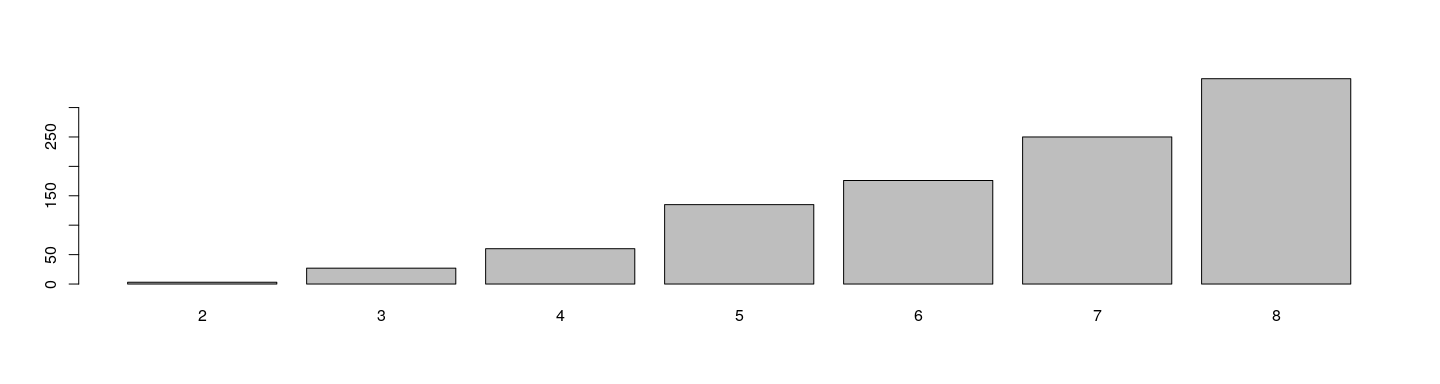
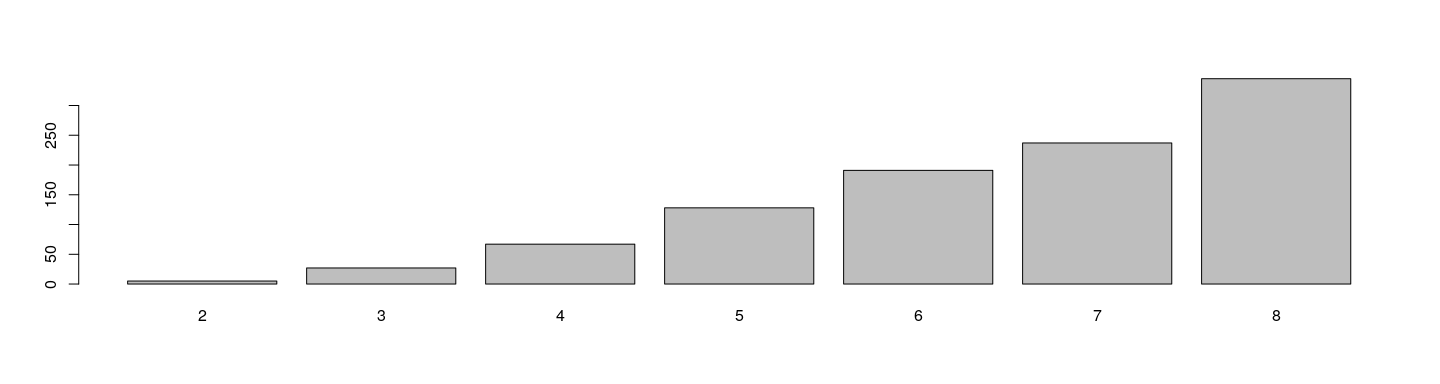
updates

diff --git a/courses/introductory-computer-programming/slides/09-rapply-3.html b/courses/introductory-computer-programming/slides/09-rapply-3.html
@@ -20,22 +20,23 @@ mathjax: true
 
 -->
 
-layout: true
 
-# The `lapply()` function
+# Recap
+
+* `lapply(X, FUN)` applies the function `FUN` on each element of `X`
+	
+* Extra arguments to `FUN` can also be supplied (but these remain fixed for each call)
+	
+* These extra arguments can be named to control which argument of `FUN` varies
+
+
+
 
 ---
 
-* Recap:
+layout: true
 
-	* `lapply(X, FUN)` applies the function `FUN` on each element of `X`
-	
-	* Extra arguments to `FUN` can also be supplied (but these remain fixed for each call)
-	
-	* These extra arguments can be named to control which argument of `FUN` varies
-
-
-
+# The `lapply()` function
 
 ---
 
@@ -56,11 +57,11 @@ str(lapply(1:5, FUN = rnorm, n = 1, mean = 0))
 
 ```
 List of 5
- $ : num -0.0719
- $ : num 0.144
- $ : num -0.101
- $ : num 0.479
- $ : num -4.75
+ $ : num 0.492
+ $ : num 1.32
+ $ : num -2.51
+ $ : num -5.99
+ $ : num 9.58
 ```
 --
 
@@ -73,7 +74,7 @@ rnorm(5, mean = 0, sd = 1:5)
 ```
 
 ```
-[1] -0.1784805  0.6632259  2.4897465 -0.2026332 -2.6879149
+[1] -0.09093912 -0.89359590 -1.88663962 -3.02831868  3.18496595
 ```
 
 ---
@@ -87,14 +88,14 @@ str(lapply(1:8, function(s) IQR(rnorm(n = 1000, mean = 0, sd = s))))
 
 ```
 List of 8
- $ : num 1.16
- $ : num 3.05
- $ : num 4.13
- $ : num 5.29
- $ : num 6.74
- $ : num 7.63
- $ : num 9.56
- $ : num 10.7
+ $ : num 1.39
+ $ : num 2.94
+ $ : num 3.88
+ $ : num 5.08
+ $ : num 7.4
+ $ : num 8.45
+ $ : num 9.19
+ $ : num 11
 ```
 
 ---
@@ -113,7 +114,7 @@ sapply(1:8, function(s) IQR(rnorm(n = 1000, mean = 0, sd = s)))
 ```
 
 ```
-[1]  1.313640  2.631882  3.988291  5.392397  6.946055  7.811937  9.601411 10.948800
+[1]  1.339863  2.590237  3.818228  5.318264  6.575928  8.123205  8.836811 11.098019
 ```
 
 
@@ -122,12 +123,12 @@ sapply(1:6, function(s) quantile(rnorm(n = 1000, mean = 0, sd = s)))
 ```
 
 ```
-            [,1]         [,2]       [,3]       [,4]       [,5]       [,6]
-0%   -3.14735295 -5.578174064 -8.4018331 -14.400185 -20.349719 -17.105913
-25%  -0.73655370 -1.410418439 -1.8743388  -2.453415  -3.160600  -4.332324
-50%  -0.07412215  0.001351075  0.1528226   0.265138  -0.117841  -0.159386
-75%   0.63507176  1.345615313  2.2607078   2.907374   3.240142   3.881283
-100%  3.36913341  7.064352650  9.1814567  12.087214  14.196931  16.164054
+            [,1]        [,2]       [,3]          [,4]        [,5]         [,6]
+0%   -3.28063320 -5.63571568 -9.0398668 -19.099832113 -16.2652673 -17.55960422
+25%  -0.70567469 -1.33287966 -2.2350691  -2.759318896  -3.4561019  -4.15835932
+50%  -0.04021887 -0.07850721 -0.2550142  -0.005546089   0.1769511   0.07887178
+75%   0.64690419  1.27053291  1.9990935   2.513602735   3.4368861   3.90492779
+100%  3.27322026  6.80429707  8.9521230  10.816754899  18.6521178  17.51371811
 ```
 
 ---
@@ -151,7 +152,7 @@ str(m1)
 ```
 
 ```
- num [1:1000, 1:8] 0.0255 -1.517 -0.0895 0.9967 -0.1302 ...
+ num [1:1000, 1:8] 0.302 1.605 -0.647 -0.647 0.377 ...
 ```
 
 * Note that this is essentially the same as
@@ -163,7 +164,7 @@ str(m2)
 ```
 
 ```
- num [1:1000, 1:8] -0.69 0.966 0.556 -0.753 0.484 ...
+ num [1:1000, 1:8] 1.006 -0.042 0.836 -0.255 -1.823 ...
 ```
 
 ---
@@ -184,7 +185,8 @@ colMeans(m1)
 ```
 
 ```
-[1]  0.03437047 -0.08332619 -0.19352819  0.03650738 -0.11624173 -0.16529956  0.08605806 -0.09065975
+[1]  0.008369193  0.006590371  0.054564211 -0.058994920 -0.062487730  0.210112484  0.006255209
+[8]  0.139253951
 ```
 
 ```r
@@ -192,7 +194,8 @@ colSums(m1) / nrow(m1)
 ```
 
 ```
-[1]  0.03437047 -0.08332619 -0.19352819  0.03650738 -0.11624173 -0.16529956  0.08605806 -0.09065975
+[1]  0.008369193  0.006590371  0.054564211 -0.058994920 -0.062487730  0.210112484  0.006255209
+[8]  0.139253951
 ```
 
 ---
@@ -209,7 +212,8 @@ apply(m1, 2, mean)
 ```
 
 ```
-[1]  0.03437047 -0.08332619 -0.19352819  0.03650738 -0.11624173 -0.16529956  0.08605806 -0.09065975
+[1]  0.008369193  0.006590371  0.054564211 -0.058994920 -0.062487730  0.210112484  0.006255209
+[8]  0.139253951
 ```
 
 ```r
@@ -217,7 +221,7 @@ apply(m1, 2, sd)
 ```
 
 ```
-[1] 0.973961 2.007993 2.961974 3.997365 5.135379 5.572814 6.743065 7.959145
+[1] 1.011419 2.012222 3.043265 4.071580 5.112984 5.873970 6.877488 7.932019
 ```
 
 ```r
@@ -225,7 +229,7 @@ apply(m1, 2, IQR)
 ```
 
 ```
-[1]  1.294936  2.719780  3.852696  5.477830  6.952658  7.098822  9.041420 10.815642
+[1]  1.362473  2.753343  3.990112  5.635141  6.809997  7.940324  9.486787 10.782283
 ```
 
 ---
@@ -239,8 +243,8 @@ apply(m1, 2, quantile, probs = c(0.25, 0.75))
 
 ```
           [,1]      [,2]      [,3]      [,4]      [,5]      [,6]      [,7]      [,8]
-25% -0.6001764 -1.399354 -2.146904 -2.542861 -3.543185 -3.686030 -4.309807 -5.428353
-75%  0.6947600  1.320425  1.705792  2.934969  3.409472  3.412792  4.731613  5.387289
+25% -0.6636684 -1.363215 -1.935891 -3.027656 -3.553006 -3.856299 -4.878299 -5.430362
+75%  0.6988050  1.390128  2.054221  2.607485  3.256991  4.084024  4.608488  5.351921
 ```
 
 * As well as unnamed functions
@@ -251,7 +255,7 @@ apply(m1, 2, function(x) median(abs(x)))
 ```
 
 ```
-[1] 0.6602236 1.3591198 1.9806799 2.7673879 3.4647200 3.6195444 4.5282706 5.4043778
+[1] 0.6920514 1.3772777 1.9892826 2.8110458 3.4470390 3.9742496 4.6929433 5.4025848
 ```
 
 ---
@@ -264,28 +268,28 @@ apply(m1, 1, function(x) which.max(abs(x)))
 ```
 
 ```
-   [1] 7 7 7 5 7 7 8 5 8 6 4 7 7 6 8 6 8 6 6 8 8 7 5 8 8 5 7 7 7 6 7 6 8 8 7 7 7 8 7 8 6 5 6 4 8 5 8
-  [48] 6 3 7 7 8 6 8 3 8 8 5 7 7 8 8 8 7 7 6 8 7 6 7 5 8 6 7 7 8 5 8 5 7 4 5 6 8 5 6 8 6 6 7 7 8 7 8
-  [95] 8 6 7 5 6 8 6 7 5 5 7 7 8 6 6 4 6 8 7 8 3 8 8 8 7 8 6 7 8 6 7 7 8 6 7 8 6 7 4 5 8 7 5 7 8 5 7
- [142] 2 7 6 8 7 8 8 8 5 7 7 8 7 8 3 8 8 2 8 5 8 4 5 8 4 5 8 8 6 3 8 6 6 7 5 6 6 8 6 8 6 8 6 5 4 8 5
- [189] 5 5 4 8 4 4 8 6 6 6 7 7 8 7 8 8 8 7 5 6 6 8 8 8 8 4 6 6 8 7 7 7 8 8 7 5 7 6 5 5 6 8 6 8 8 7 3
- [236] 8 7 6 5 6 5 8 7 7 3 7 7 7 6 8 6 8 7 6 3 7 7 8 8 8 8 8 4 8 8 6 6 6 6 6 7 7 8 6 7 8 5 7 6 7 8 6
- [283] 7 7 8 7 6 8 6 8 5 8 4 5 7 4 5 6 7 8 4 8 7 8 7 8 5 8 6 5 8 7 6 6 8 4 7 4 6 5 8 8 5 4 6 8 8 6 6
- [330] 8 8 4 6 8 5 5 8 8 7 5 8 6 7 5 8 8 8 6 7 8 5 8 7 7 6 7 8 6 8 5 8 8 4 7 7 8 7 4 7 8 7 5 8 8 8 6
- [377] 7 5 8 6 7 8 8 8 8 5 7 7 5 8 8 8 7 8 7 8 5 6 7 8 5 7 7 6 8 7 8 7 6 7 5 7 8 6 7 8 8 6 7 8 4 8 3
- [424] 7 3 8 8 4 4 4 8 8 5 8 7 7 5 7 8 8 7 7 7 5 4 7 6 8 2 8 6 8 7 8 7 8 7 5 7 4 7 8 6 7 7 5 3 7 6 6
- [471] 6 7 6 6 8 7 7 7 7 8 8 8 7 5 3 7 8 5 5 8 8 5 8 4 8 8 8 8 7 3 8 6 8 4 6 7 5 8 5 8 8 3 5 4 5 4 8
- [518] 8 5 8 4 8 8 8 7 6 8 6 8 5 4 4 7 8 5 8 8 7 7 8 4 8 6 4 5 7 7 8 8 7 8 6 4 6 8 6 6 8 6 6 7 7 8 8
- [565] 8 4 5 8 7 5 8 5 8 5 6 5 7 5 6 6 7 8 6 8 8 6 5 5 5 4 8 8 6 6 3 6 7 8 7 7 6 7 8 6 7 5 5 8 4 7 8
- [612] 8 8 7 6 7 8 8 8 8 8 8 8 7 8 8 5 8 7 8 7 7 5 5 3 5 6 5 7 6 8 5 8 8 7 4 8 8 7 7 5 8 7 5 7 6 4 8
- [659] 8 7 5 8 7 8 8 5 8 5 6 8 7 8 8 6 5 6 8 5 7 7 8 6 4 8 6 8 6 6 8 4 7 8 7 6 6 4 8 8 8 8 6 6 7 7 5
- [706] 4 5 7 6 5 8 6 7 8 7 8 7 8 5 8 8 7 5 7 5 6 8 7 8 6 4 5 7 6 7 7 3 7 7 6 5 7 7 5 5 8 7 8 7 7 6 7
- [753] 6 5 6 8 8 7 7 8 3 5 4 8 5 6 6 8 7 7 4 7 6 5 6 4 6 8 7 3 8 8 4 5 8 8 8 8 6 4 7 6 8 6 8 8 7 8 8
- [800] 7 6 8 8 6 8 7 6 5 5 8 6 6 5 7 8 6 7 8 6 8 8 7 7 5 5 8 7 7 6 8 8 7 3 6 8 7 6 8 5 7 7 8 8 8 8 8
- [847] 7 8 8 4 7 7 8 7 8 7 7 6 3 8 8 8 8 8 5 8 5 6 6 8 7 8 8 8 5 8 8 8 5 7 3 8 8 6 4 6 8 4 8 8 3 8 8
- [894] 7 8 4 8 7 7 8 8 7 8 6 6 5 7 7 8 6 7 8 5 7 8 6 8 8 8 8 4 3 8 8 6 6 7 8 5 7 6 7 7 5 7 6 7 5 5 6
- [941] 7 5 8 6 8 7 5 3 7 3 6 7 7 7 7 8 8 7 7 7 8 6 6 8 3 6 5 5 8 6 5 4 8 4 7 8 8 6 8 7 7 8 8 5 7 5 6
- [988] 8 5 8 8 8 8 5 8 6 7 7 7 8
+   [1] 3 4 8 8 8 8 6 4 7 8 8 5 8 7 6 6 5 7 8 8 8 6 6 8 6 7 7 8 7 7 6 4 8 4 5 8 6 7 7 8 6 6 6 8 6 7 5
+  [48] 6 5 6 6 5 8 8 3 5 4 7 6 7 7 8 5 7 3 5 8 7 6 5 7 6 6 8 7 4 8 6 6 7 7 6 5 8 7 5 5 5 6 6 6 8 8 5
+  [95] 4 5 5 7 8 7 8 7 8 4 8 7 7 7 5 8 5 8 6 6 6 2 4 7 5 8 6 6 5 8 7 7 6 8 6 6 6 6 2 5 8 7 7 8 6 6 8
+ [142] 8 8 5 7 7 3 7 7 8 7 7 4 8 8 7 8 4 4 7 6 4 7 8 8 5 7 7 8 4 8 8 7 5 7 8 7 4 8 7 5 8 8 7 6 8 5 7
+ [189] 5 6 2 5 7 8 6 8 7 8 5 3 6 8 4 8 7 7 8 7 7 7 8 7 5 6 5 8 8 7 4 6 7 8 8 8 8 8 8 8 7 7 5 7 3 6 7
+ [236] 5 5 4 7 7 4 8 7 6 6 7 8 6 3 8 7 5 8 5 7 8 4 7 6 7 6 7 8 7 8 8 6 6 8 6 6 8 6 8 8 8 4 8 6 7 4 8
+ [283] 4 5 8 8 6 8 8 8 8 3 5 8 6 6 7 8 7 5 8 7 7 8 6 6 6 5 8 7 8 8 8 7 8 4 8 8 7 8 7 7 8 7 6 8 4 8 8
+ [330] 8 7 8 5 8 2 6 8 8 7 7 3 7 8 8 5 8 8 4 8 4 8 7 8 6 5 6 5 7 4 5 6 5 7 8 7 6 5 8 6 6 8 4 5 6 7 6
+ [377] 5 6 6 5 6 8 8 5 8 8 8 6 6 7 6 7 7 6 8 5 8 6 5 5 4 8 8 7 8 7 8 8 5 3 5 6 7 7 6 7 4 6 8 8 8 8 7
+ [424] 6 6 7 6 6 6 8 7 6 6 8 8 7 5 6 7 8 7 4 5 4 6 8 7 8 5 7 8 4 8 8 7 3 8 7 7 7 6 8 5 6 5 3 5 7 6 5
+ [471] 7 7 7 7 8 8 8 4 8 8 7 7 5 8 8 7 4 7 6 3 5 6 8 7 3 7 4 5 7 6 5 5 5 7 8 4 7 8 5 4 7 7 7 7 7 8 3
+ [518] 8 4 5 5 5 8 5 8 8 5 8 8 8 7 6 7 4 8 8 3 6 5 7 6 7 5 8 4 6 8 6 6 6 8 6 6 7 7 6 8 8 4 5 8 3 6 7
+ [565] 7 7 8 7 7 8 8 7 7 6 3 6 8 7 8 8 5 7 8 8 5 5 5 7 7 6 8 4 4 8 5 7 5 6 6 7 8 6 6 8 6 8 7 8 8 6 8
+ [612] 5 6 3 6 8 8 8 8 7 7 8 6 7 3 7 8 7 7 8 6 5 8 7 8 8 7 6 5 5 8 4 5 5 4 8 6 6 7 8 3 4 6 6 8 7 8 5
+ [659] 4 8 7 7 5 8 8 8 8 7 5 8 8 6 6 8 5 8 7 8 5 8 8 8 7 8 8 5 4 8 7 8 8 7 8 8 8 8 8 8 5 8 7 8 6 8 6
+ [706] 7 5 8 8 6 3 8 6 7 5 3 8 8 8 6 4 8 6 8 8 8 8 8 4 8 8 3 7 5 7 8 7 7 6 7 8 5 7 8 7 3 7 8 5 6 6 7
+ [753] 8 5 5 5 7 8 6 6 8 5 6 7 5 4 7 8 8 7 8 7 8 8 8 8 6 8 8 8 6 8 5 6 8 7 8 7 6 8 8 6 8 4 4 7 6 5 8
+ [800] 7 6 7 4 7 4 8 7 5 8 7 6 7 7 6 7 7 8 6 8 6 6 8 8 6 6 5 4 5 5 6 8 7 6 5 8 3 6 8 6 6 5 6 6 7 7 8
+ [847] 6 5 8 7 6 7 4 7 7 5 6 8 6 8 7 4 7 8 8 8 6 5 7 8 8 6 4 7 7 6 6 7 7 7 2 7 8 8 6 8 5 8 7 8 8 6 4
+ [894] 8 8 8 8 8 8 8 8 8 8 8 8 7 7 8 5 8 8 6 5 6 8 7 7 7 6 8 7 7 6 8 8 5 5 8 6 7 8 6 8 8 7 8 6 8 6 7
+ [941] 7 8 6 5 8 8 4 5 4 7 7 8 8 4 6 5 6 6 6 7 6 8 8 8 8 8 8 4 8 6 8 8 7 8 8 8 3 8 7 6 6 6 8 8 7 4 7
+ [988] 7 8 7 8 8 8 8 6 7 7 7 8 5
 ```
 
 ---
@@ -301,7 +305,7 @@ table(wmax)
 ```
 wmax
   2   3   4   5   6   7   8 
-  3  27  60 135 176 250 349 
+  5  27  67 128 191 237 345 
 ```
 
 ```r
@@ -524,13 +528,17 @@ apropos("apply") # objects with 'apply' in their names
  [8] "sapply"     "tapply"     "vapply"    
 ```
 
-* `vapply()`: Safer version of `sapply()` with pre-specified return type
+* Will not discuss in detail:
 
-* `mapply()`: Vectorized apply, where multiple arguments can be varied
+	* `vapply()`: Safer version of `sapply()` with pre-specified return type
 
-* `eapply()`: Apply over elements in an environment, which we can ignore for now
+	* `mapply()`: Vectorized apply, where multiple arguments can be varied
 
-* `rapply()`: Recursive apply (over complex lists), which we can also ignore for now
+	* `eapply()`: Apply over elements in an environment, which we can ignore for now
+
+	* `rapply()`: Recursive apply (over complex lists), which we can also ignore for now
+
+* Others are even more specialized
 
 ---
 
